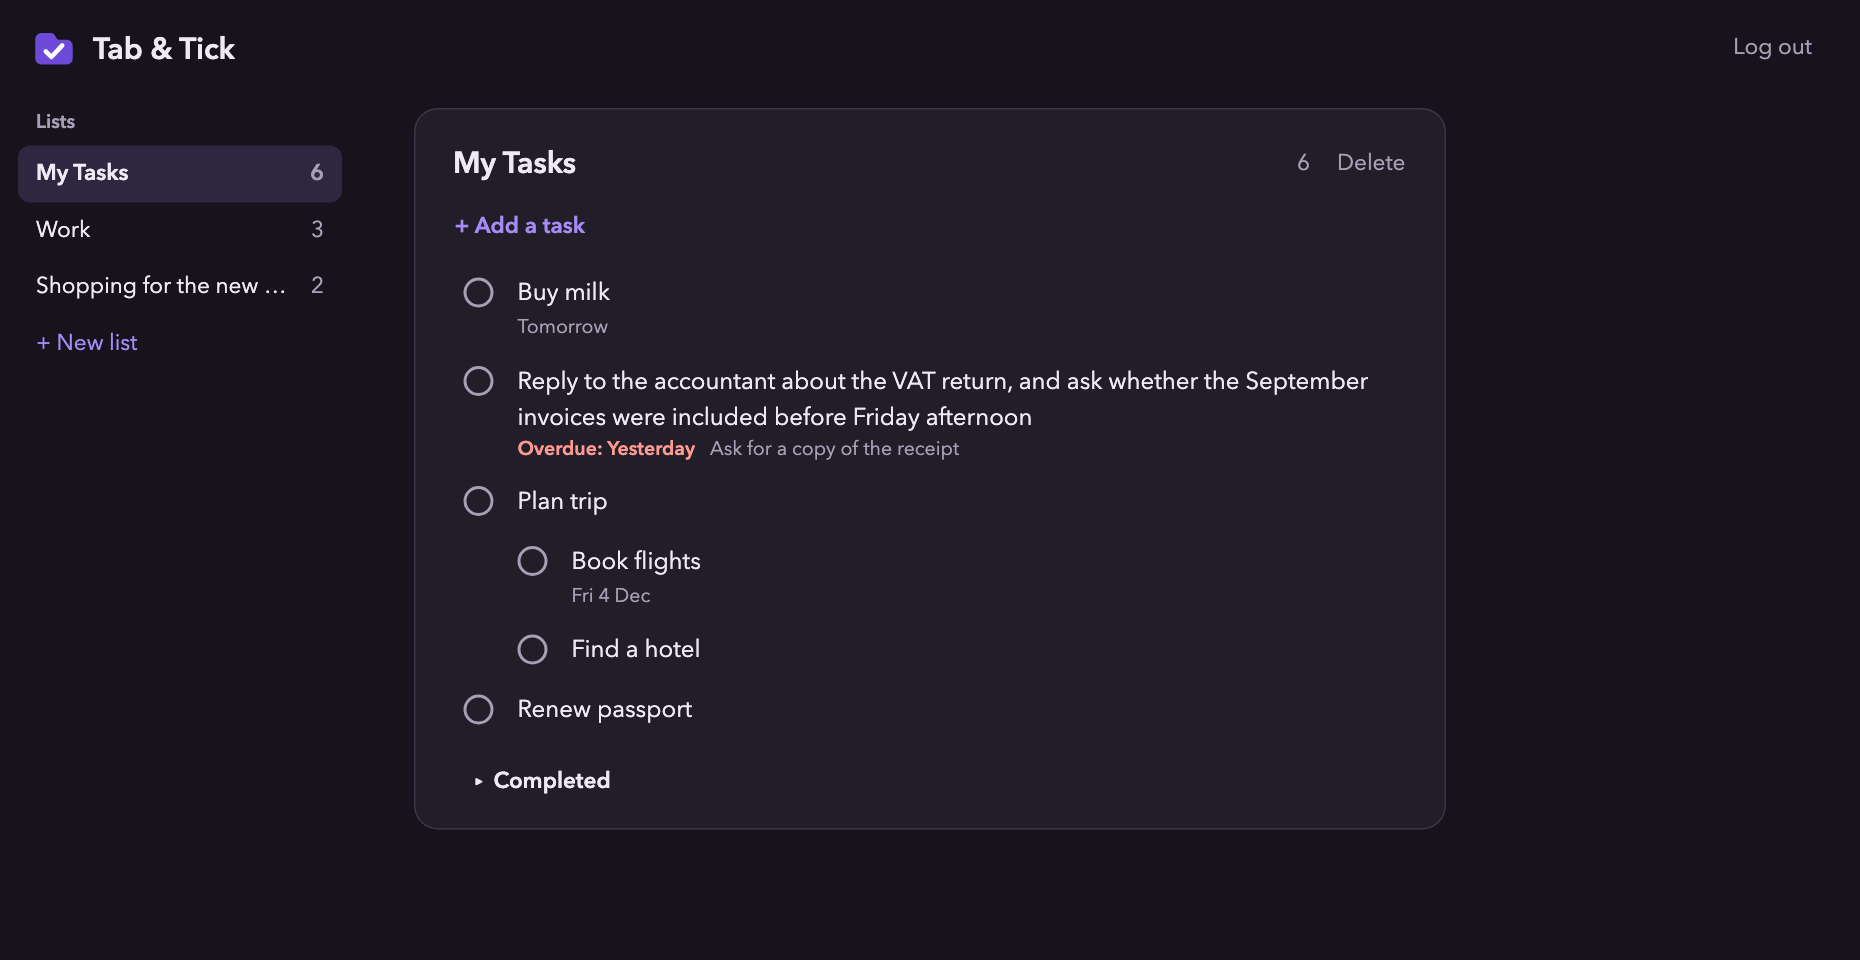
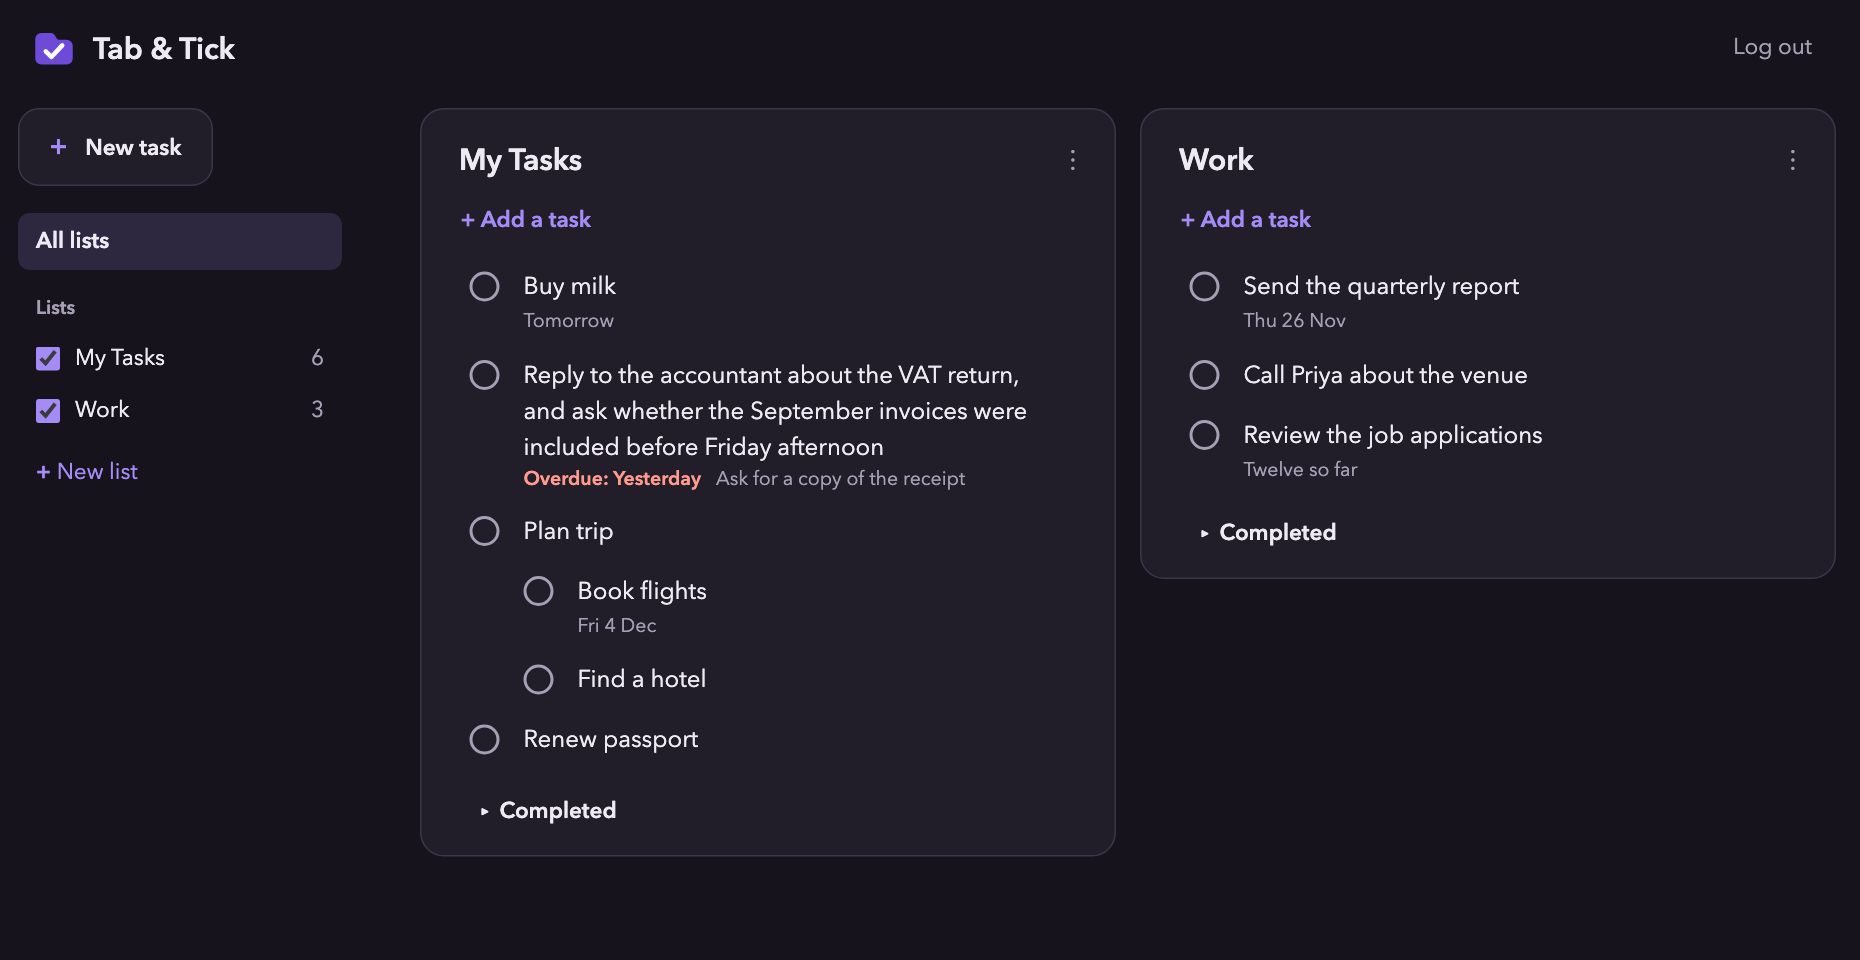
Update the screenshots and privacy page for the new layout

diff --git a/privacy/index.html b/privacy/index.html
@@ -26,7 +26,7 @@
       <h2>What&rsquo;s kept in your browser</h2>
       <ul class="plain">
         <li>A temporary key from Google. On the website it lasts up to an hour, and is forgotten when you log out or close the tab. In the extension, Chrome looks after it.</li>
-        <li>Which list you last opened, and whether you logged out.</li>
+        <li>Which lists you&rsquo;ve hidden, and whether you logged out.</li>
       </ul>
       <p>Your tasks aren&rsquo;t saved in your browser. There are no analytics, adverts or tracking cookies of ours.</p>
 
